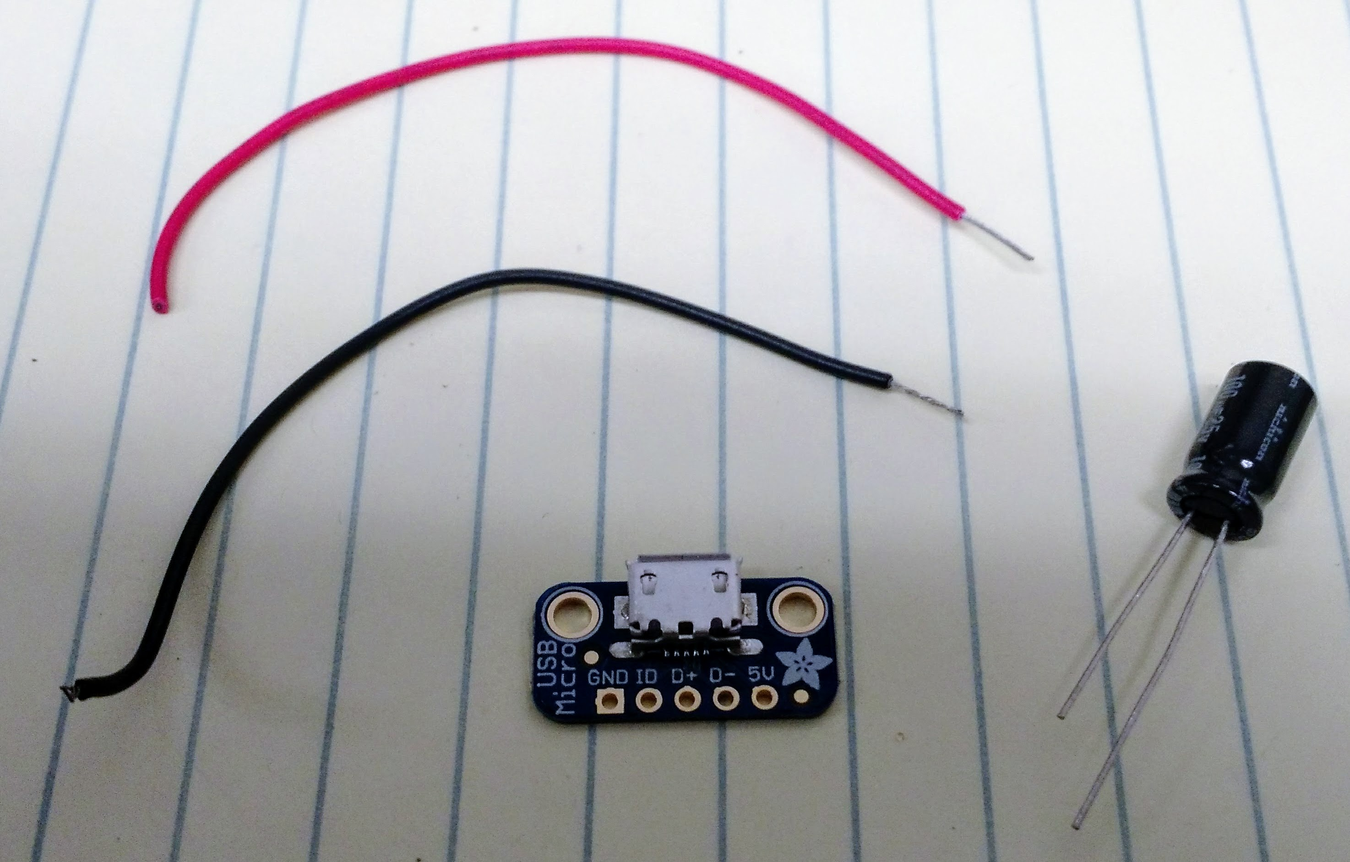
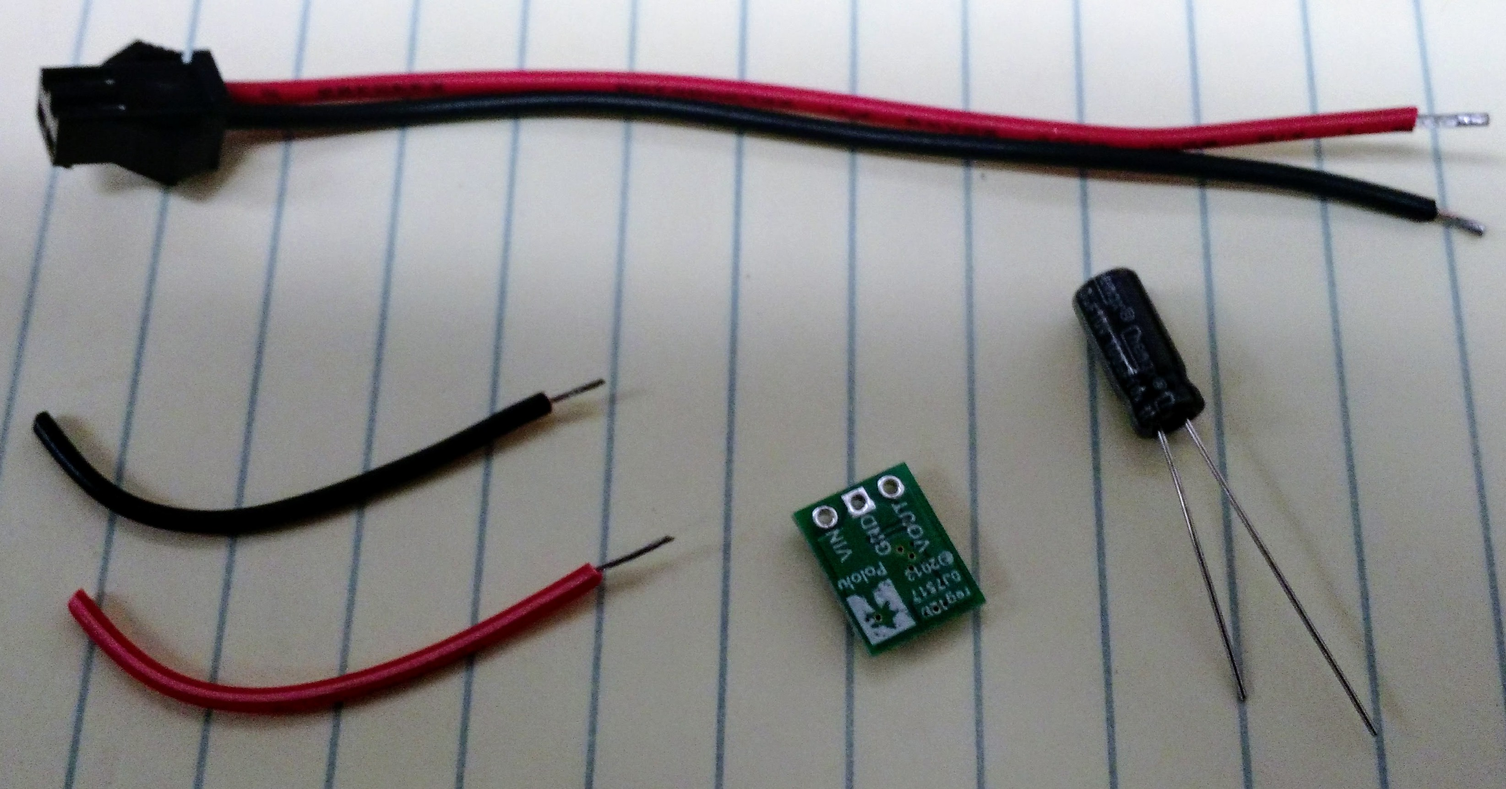
updates to assembly instructions.

diff --git a/assembly/readme.md b/assembly/readme.md
@@ -4,22 +4,24 @@ Below are the steps I've worked out so far for assembling the GPS collars. Unles
 ## Solder headers onto the Arduino
 We're using an Arduino Pro Mini 5v that needs a FTDI board to write the firmware to the Arduino. For that we need to attach headers to the Arduino.
 1. Discard (i.e., put in the parts bin) any male headers that may have come with the Arduino. We will use a 6-position 90-deg female header.
-<img src="./img/header1.jpg" width="50%" height="50%">
+<br><img src="./img/header1.jpg" width="50%" height="50%">
 2. Position the header on the end of the Arduino so that the header is on the top of the unit.
-<img src="./img/header2.jpg" width="50%" height="50%">
+<br><img src="./img/header2.jpg" width="50%" height="50%">
 3. Solder each header pin in place carefully.
 4. Gently bend the header to make sure it is parallel to the Arduino board. Then trim the excess pin material off the bottom of the board.
-<img src="./img/header3.jpg" width="50%" height="50%">
+<br><img src="./img/header3.jpg" width="50%" height="50%">
 
 ## Attach wiring to the Arduino
 The next step is to attach the wiring to the Arduino board that we will use for power, the SD card board, and the done pin back to the timer board. __NOTE: The unit will not work if the wires are soldered to the wrong pins! Pay attention and take your time soldering these on.__
 1. Cut a 2.5" to 3" section of the rainbow ribbon cable.
-<img src="./img/wiring1.jpg" width="50%" height="50%">
+<br><img src="./img/wiring1.jpg" width="50%" height="50%">
 2. Carefully slice with a sharp knife between the wires at one end of the ribbon to make it easier to separate the wires.
-3. Peel off the black/white and brown wires. Separate the remaining wires down about an inch.
+3. Peel off the black/white and brown wires. Separate the remaining wires down about an inch.<br>
 <img src="./img/wiring2.jpg" width="50%" height="50%">
 4. Strip 1/4" of insulation off of one end of each of the wires and twist the wire strands together. __NOTE: It can be helpful for feeding the wires through the holes on the Arduino if you tin the ends of the wire with solder to keep them from separating. This adds time, but saves sanity.__
-5. Insert the wires through from the bottom of the Arduino and solder them in place according to the following scheme:
+5. Insert the wires through from the bottom of the Arduino and solder them in place according to the table below.<br>
+<img src="./img/wiring3.jpg" width="50%" height="50%">
+6. Trim off the excess wire close to the board.
 
 |Color|Arduino Pin|
 | --- | --- |
@@ -33,24 +35,97 @@ The next step is to attach the wiring to the Arduino board that we will use for 
 | black | GND |
 | brown | 5 |
 
-<img src="./img/wiring3.jpg" width="50%" height="50%">
-6. Trim off the excess wire close to the board.
-
 ## Attach leads and capacitor to the USB power board
-This step preps the USB power board that will feed power to the timer board. This is a pretty simple step that involves attaching positive and ground leads and a 100 microF capacitor between the +5V and ground. The capacitor serves to stabilize the power from the USB. I'm not entirely sure how this works (Hey, I'm an ecologist, remember), but not having the capacitor can cause the timer board to not initialize properly and the power "dribbles" (for lack of a better term) onto the board, causing the Arduino LED to just flutter dimly and the whole thing becomes a paperweight.
-1. Cut approximately 4" pieces of red and black hookup wire and strip 1/4" insulation from one end of each. Twist and/or tin the ends of these wires.
+This step preps the 5V step-up power regulator that will feed power to the timer board. This is a pretty simple step that involves attaching positive and ground leads and a 100 microF capacitor between the Vout and ground. The capacitor serves to stabilize the power from the battery. I'm not entirely sure how this works (Hey, I'm an ecologist, remember), but not having the capacitor can cause the timer board to not initialize properly and the power "dribbles" (for lack of a better term) onto the board, causing the Arduino LED to just flutter dimly and the whole thing becomes a paperweight.
+1. Strip 1/4" from the ends of the wires of the female pigtail harness connector. Cut approximately 2" pieces of red and black hookup wire and strip 1/4" insulation from one end of each. Twist and/or tin the ends of these wires.<br>
 <img src="./img/power1.jpg" width="50%" height="50%">
-2. Starting with the negative lead, insert the black wire up through the bottom of the USB power board at the GND hole. Then insert the negative lead (short one, also the side of the cap with the gray stripe) of the capacitor in through the same hole. It's snug, but should fit fine. Leave about 1/8" of the capacitor's negative lead exposed on the bottom of the board so you can position the capacitor after soldering.
-3. Solder the black wire and capacitor's negative lead in place. Trim the excess.
-4. Working carefully, insert the red wire in the 5V hole. Feed the positive lead of the capacitor into the same hole and solder in place. Trim the excess. __NOTE: Work carefully with the capacitor to avoid overworking and stressing the leads, potentially breaking one of them off.__
+2. Insert the red wire from the pigtail harness from the top of the voltage regulator board into the VIN hole and solder it in place. Trim excess.
+3. Insert and solder the 2" black wire piece to GND.
+4. Insert and solder the 2" red wire piece to VOUT. This will be the 5V regulated power that goes to the timer board. _Note in the photo, the black wire from the pigtail is NOT attached to anything. It's just behind the red wire. Unfortunate photography._<br>
 <img src="./img/power2.jpg" width="50%" height="50%">
+5. _This is the only tricky step of this piece._ From the back of the board, lay the capacitor over the GND and VOUT pins and hold in place with a third-hand tool. __Make sure the polarity of the capacitor is correct. Long lead should be at VOUT and short lead should be on GND.__ Carefully heat the solder for VOUT (adding extra solder as necessary) to solder the capacitor to VOUT. Repeat for GND being careful to not accidentally merge VOUT and GND with excess solder. Trim the excess leads for the capacitor.<br>
+<img src="./img/power3.jpg" width="50%" height="50%">
 
 ## Prepare the timer board
+Preparing the timer board is straight forward, but requires care in a few steps. The duration of the interval on the timer board is set by resistance. The timer board has a potentiometer that can be used to set the interval, but it is imprecise. To set a specific interval, a fixed resistor is needed and the potentiometer must be disabled.
+
+1. Use a sharp knife to cut the thin traces on the back of the timer board for LED Enable and Trim Enable. It is helpful to use a magnifying glass or dissecting microscope to ensure that you have completely cut the trace.
+<br><img src="./img/timer1.jpg" width="50%" height="50%">
+2. Cut approximately 3" of red and black hookup wire and strip 1/4" from one end of each wire.
+<br><img src="./img/timer2.jpg" width="50%" height="50%">
+3. Bend a 43k-ohm resistor into a U shape.
+4. Insert the black wire through the back of the board into the GND hole. Also insert one lead of the resistor into the GND hole (_it will be a tight fit!_). Solder the GND connections on from the front of the board.
+5. Insert the other end of the resistor through the Delay hole and solder from the front of the board.
+6. Solder the red wire into the Drive hole.
+7. Trim and excess.
+<br><img src="./img/timer3.jpg" width="50%" height="50%">
 
 ## Hook up the SD card board
+This part is pretty easy, but time consuming and care must be taken to ensure wires are connected properly. Redoing wires that were soldered in the wrong place is a real pain.
+
+1. Start with an Arduino that has the ribbon cable soldered to it and unpackage a SD card board.
+<br><img src="./img/sdcard1.jpg" width="50%" height="50%">
+2. Carefully separate the ends of the ribbon cable down about 1.5" and strip about 1/8" from the ends of each wire. Twist or tin the ends of the wire.
+<br><img src="./img/sdcard2.jpg" width="50%" height="50%">
+3. Inserting the wires from the bottom of the board, solder the wires according to the table below. Trim and excess. Separate the red and gray wires from the rest of the ribbon. These will be unconnected on the end opposite the SD card board.
+<br><img src="./img/sdcard3.jpg" width="50%" height="50%">
+
+| Wire Color | SD Card Connection |
+| --- | --- |
+| VCC | Red |
+| CS | Orange |
+| OI | Blue |
+| SCK | Green |
+| DO | Purple |
+| CD | Yellow |
+| GND | Gray |
 
 ## Connect the GPS
+Hookup of the GPS will depend on which GPS being used. For the 3-wire Sparkfun GPS units, simply solder the white wire to Arduino pin 4.
+
+For the Ublox GPS units, pay attention to the wiring diagram. The molex cable that comes with the GPS unit has the colors reversed, so black and red are TX/RX, and yellow and green are GND and VIN. Solder the TX wire (black) to Arduino pin 3 and the RX wire (red) to Arduino pin 4.
+<br><img src="./img/gps_ublox1.jpg" width="50%" height="50%">
 
 ## Connect the positive and negative leads
+This step involved gathering up all the loose VCC and ground leads and soldering them together. A 100 micro-F capacitor can help stabilize power but may not be necessary (but doesn't hurt).
+
+1. Gather the loose ground leads. Strip 1/4" from the end of each. Carefully twist them together and solder. Wrap the negative end of the capacitor around this soldered bundle and apply more solder. Trim excess.
+2. Repeat for the VCC leads, soldering the positive lead for the capacitor to the bundle as well.
+<br><img src="./img/assembly5.jpg" width="50%" height="50%">
+
+When you have finished this step, insert a blank microSD card and hook a battery up to the device to ensure that it is working properly. Let it run for a few cycles and check that data are being recorded to the SD card. Once you're happy with how the device is working, then move on to packaging the device.
 
 ## Positioning and packaging the device
+No silver bullets here. Just need to get the pieces on a small length of wood (paint stir stick, ~3" long, split in half lengthwise works well) or plastic (or other non-conductive backing material) as neatly as possible. Current arrangement detailed below. Use a flexible hot glue to hold the parts in place.
+<br><img src="./img/assembly1.jpg" width="50%" height="50%">
+
+<br><img src="./img/assembly2.jpg" width="50%" height="50%">
+
+<br><img src="./img/assembly3.jpg" width="50%" height="50%">
+
+<br><img src="./img/assembly4.jpg" width="50%" height="50%">
+
+
+## Secure device with heat-shrink tubing
+Clear heat-shrink tubing can be used to shrink-wrap the device and protect the soldered connections.
+
+1. Cut a section of the clear heat-shring tubing that is as long as the device.
+2. Fit the tubing over the device being careful not to snag or displace and of the wires or components.
+3. Holding the device by the pigtail, use a heat gun on low setting to shrink the tubing around the device. Let it cool afterward.
+4. If the heat-shrink tubing is depressing the buttons on the arduino or the timer board, use a sharp knife to gently cut away the het-shrink plastic from immediately around the buttons.
+5. Ensure that the heat-shrink tubing does not interfere with the FTDI header on the Arduino or inserting/removing the microSD card.
+
+## Battery holder and leads
+We are using Imram 3000 mAh 3.7V LiPo rechargeable batteries. The batteries are housed in a plastic holder with a spring on the negative end. The leads that come on the battery holder are cheap, thin wires and need to be replaced with the male end of the pigtail wiring harness.
+1. Clip the original, thin leads off of the battery holder as close to the plastic as possible. Make sure that nothing will interfere with the positive terminal of the battery mating with the contact on the battery holder.
+2. Strip about 1/4" of wire from the red and black wires of the wiring harness.
+3. Starting with the positive terminal (no spring, red wire), carefully solder the red wire from the pigtail onto the brass "button" on the end of the battery holder. Use a generous amount of solder and ensure that the connection is solid. _Note: you will need to work quickly because the heat from the soldering iron will start to melt the battery holder if the contact gets too hot._
+4. Trim and excess wire protruding inside the positive contact in the battery holder.
+5. Repeat with the negative terminal (black wire). No need to worry about trimming excess wire as it will be out of the way inside the spring.
+<img src="./img/batteryholder.jpg" width="50%">
+
+## Load firmware and test device
+Firmware can be loaded at any stage. Use the FTDI cable to connect the Arduino Pro Mini to the computer. Make sure the voltage jumper on the FTDI board is set correctly for the voltage of the board. If the LED on the Arduino does not light up, the FTDI board is inserted backward. Verify the board settings on the computer are correct and upload the firmware to the device.
+<br><img src="./img/firmware1.jpg" width="50%" height="50%">
+
+## Prep the data card and label the GPS units.
